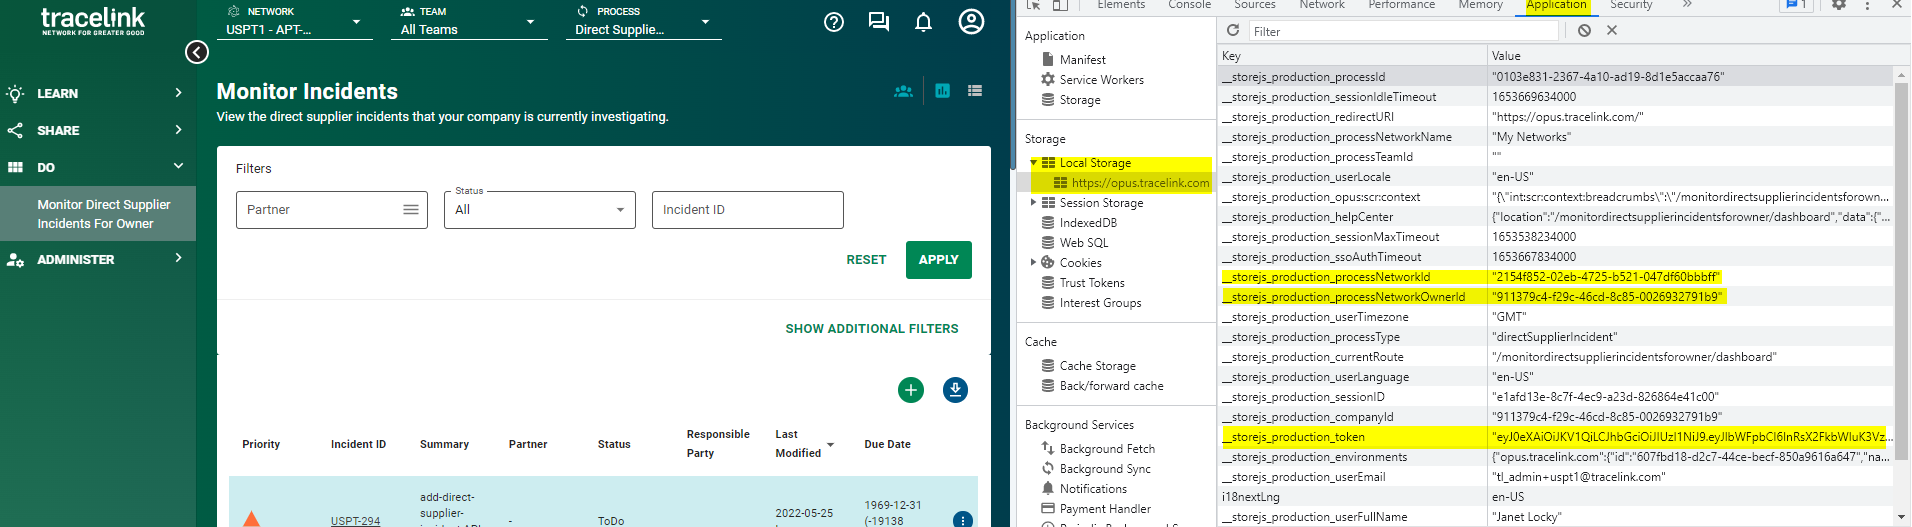
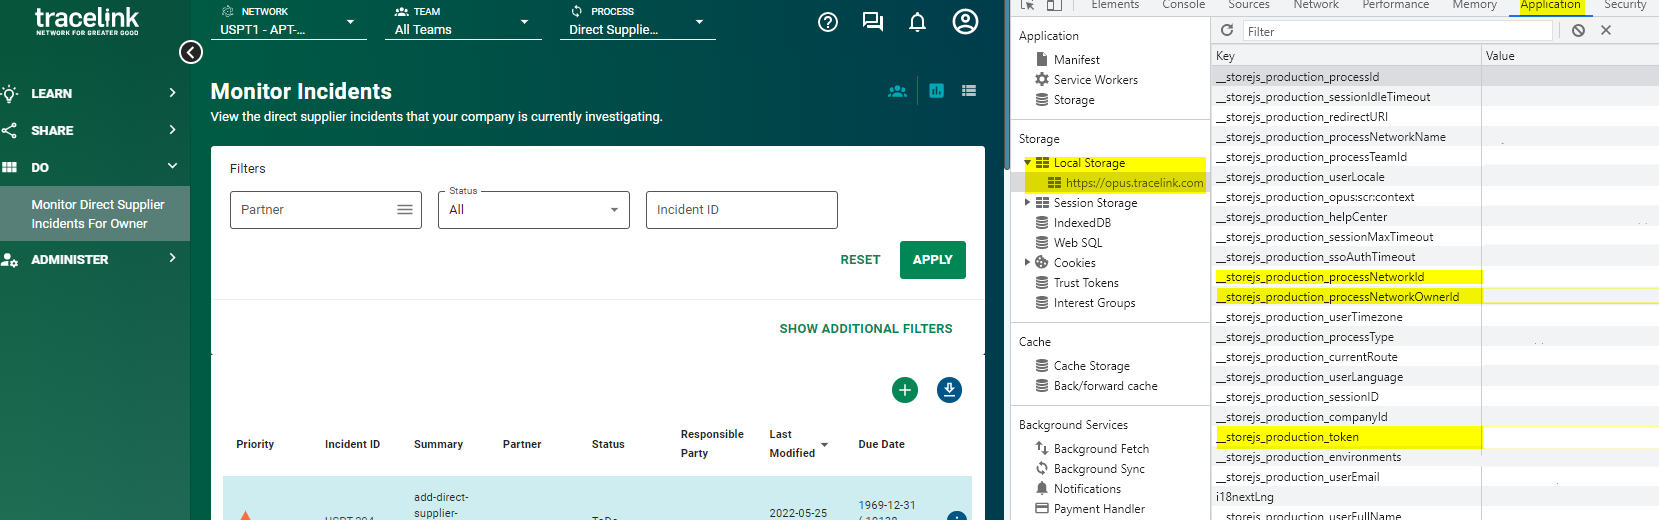
new screenshots

diff --git a/authentication.md b/authentication.md
@@ -25,7 +25,8 @@ This process involves:
 
 From the Chrome menu, navigate to **View** > **Developer** > **Developer Tools**.
 Select the **Application** tab from the Developer Tools pane. From the left hand navigation menu, under the storage section, select
-**Local Storage** from the dropdown. Then, click `https://opus.tracelink.com`. You should now see a list of key/value pairs. 
+**Local Storage** from the dropdown. Then, click `https://opus.tracelink.com`. You should now see a list of key/value pairs. The
+values in the screenshot below were redacted. 
 
 ![Key Value Pairs](images/chrome_apt.png)
 
@@ -33,7 +34,7 @@ Select the **Application** tab from the Developer Tools pane. From the left hand
 
 From the Firefox menu, navigate to **Tools** > **Web Developer Tools**.
 Select the **Storage** tab from the Web Developer Tools pane. From the left hand navigation menu, click **Local Section** and then
-`https://opus.tracelink.com`. You should now see a list of key/value pairs. 
+`https://opus.tracelink.com`. You should now see a list of key/value pairs. The values in the screenshot below were redacted. 
 
 ![Key Value Pairs](images/firefox_apt.png)
 
@@ -76,11 +77,11 @@ Here is an example response:
     "ownerId": "00000000-0000-0000-0000-000000000000",
     "isErr": false,
     "errCode": "200_OK",
-    "licensePlate": "lrYvpv-0Cj4nC"
+    "licensePlate": "abCdef-0Ab1cD"
   },
   "payload": {
-    "apiKey": "e19e1c68c-2f49-46f3-b552-e28b7d671b2f",
-    "apiSecret": "jt2x1xa0TxKbRyMhPMuuObcabnNxspFs"
+    "apiKey": "XXXXXXXXX-XXXX-XXXX-XXXX-XXXXXXXXXXXX",
+    "apiSecret": "xxxxxxxxxxxxxxxxxxxxxxxxxxxxxxxx"
   }
 }
 ```
@@ -91,17 +92,17 @@ The API key and secret are long-lived, static values that do not expire.
 
 1. Take the values of `apiKey` and `apiSecret` and convert them into a string with the format {{KEY}}:{{SECRET}}, with a colon seperating the two values. 
 
-   For example: `e19e1c68c-2f49-46f3-b552-e28b7d671b2f:jt2x1xa0TxKbRyMhPMuuObcabnNxspFs`.
+   For example: `a12b3c45d-6e78-90f1-g234-h56i7j890k1l:mn2o3pq4RsTuVwXyZAbc5defghIjklMn`.
 
 2. Use the following command in your terminal window to encode the string: `echo -n 'KEYSECRETSTRING' | base64`
 
-   For example: `echo -n '`e19e1c68c-2f49-46f3-b552-e28b7d671b2f:jt2x1xa0TxKbRyMhPMuuObcabnNxspFs`' | base64`.
[1 lines of base64/hex data omitted]
+   For example: `echo -n '`a12b3c45d-6e78-90f1-g234-h56i7j890k1l:mn2o3pq4RsTuVwXyZAbc5defghIjklMn`' | base64`.
[1 lines of base64/hex data omitted]
 
    Alternatively, you can use an online resource such as https://www.base64encode.org/ to encode your string.
 
 3. This encoded result can now be used in a basic authorization header. 
-   For example, `authorization: Basic YGUxOWUxYzY4Yy0yZjQ5LTQ2Zj...BUeEtiUnlNaFBNdXVPYmNhYm5OeHNwRnNg`.
+   For example, `authorization: Basic YGExMmIzYzQ1ZC02ZTc4LTkwZjEtZzIzN...6bW4ybzNwcTRSc1R1VndYeVpBYmM1ZGVmZ2hJamtsTW5g`.
 
 
 ### Python 
